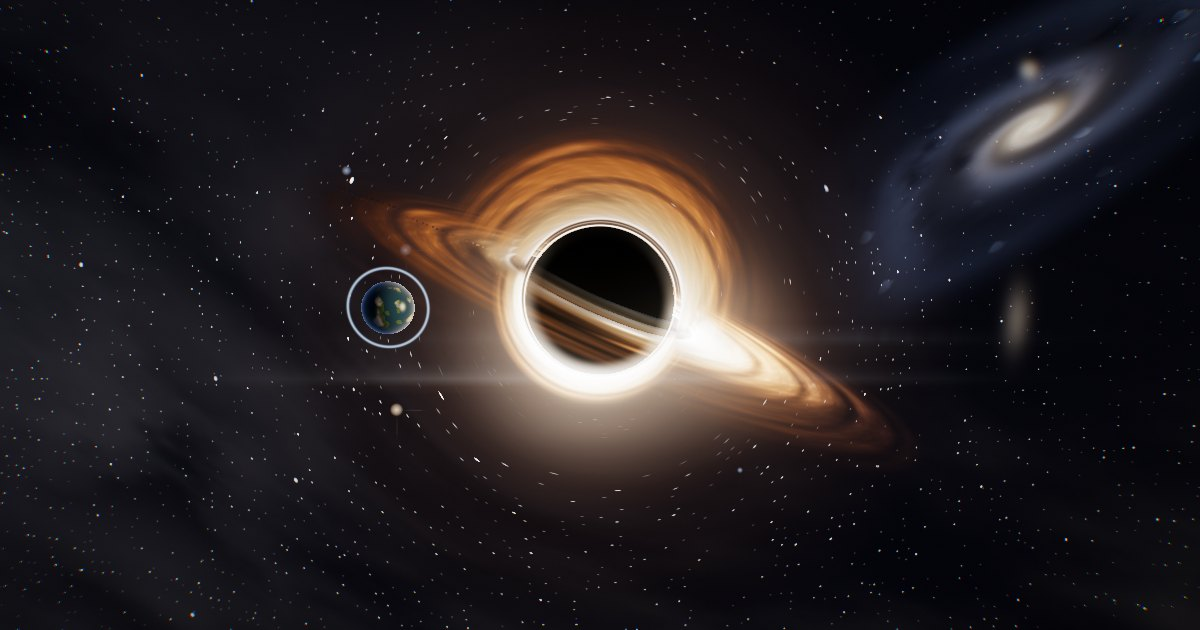
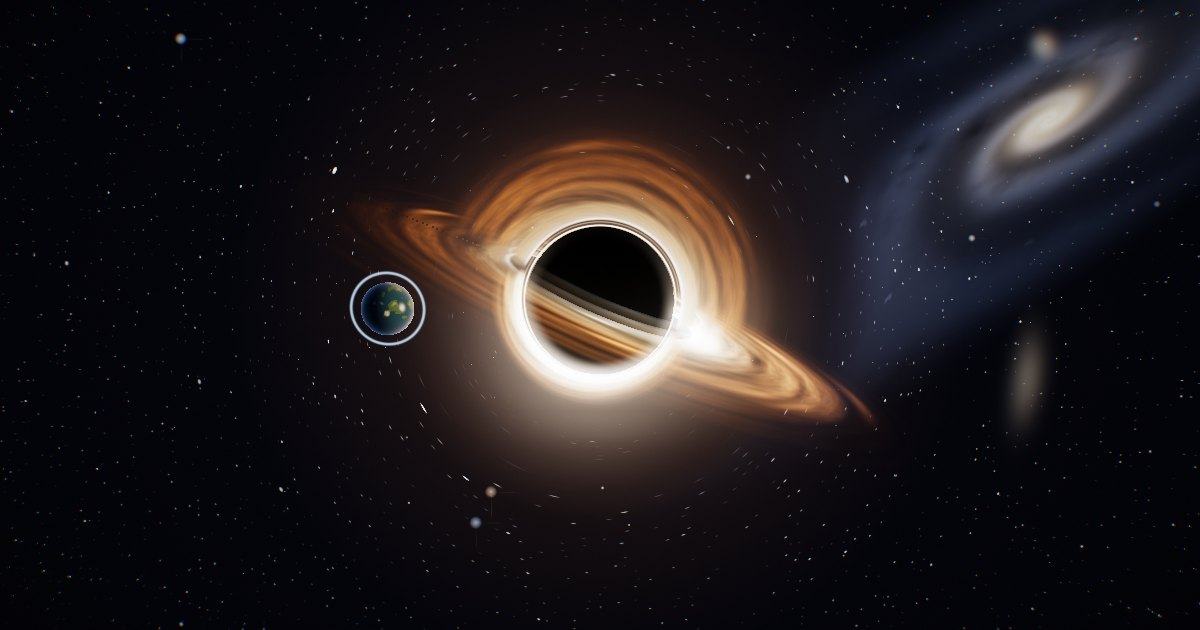
Fuera la raya de luz horizontal en las dos páginas y la Vía Láctea de Gargantua (Andrómeda más grande)

diff --git a/gargantua/escena.js b/gargantua/escena.js
@@ -10,7 +10,7 @@ import { Pass, FullScreenQuad } from "three/addons/postprocessing/Pass.js";
 // Gargantua, flotando en el espacio y haciendo de portada del
 // portfolio. El disco de gas son tres capas que giran (más rápido por
 // dentro), la luz doblada son dos arcos que abrazan la sombra negra, y
-// detrás hay estrellas, la Vía Láctea y Andrómeda, todo deformado por la
+// detrás hay estrellas y Andrómeda, todo deformado por la
 // gravedad. De vez en cuando se come un planeta. Arrastrando se gira
 // alrededor y con la rueda o pellizcando te acercas. El menú lleva la
 // cámara a una toma distinta por sección. Al cargar llegas desde lejos
@@ -146,7 +146,7 @@ const tRuido = { value: texturaRuido() };
 // =====================================================================
 // 4. EL FONDO: ESTRELLAS DOBLADAS POR LA GRAVEDAD
 // Un cielo hecho en el shader: estrellas en una rejilla sobre las caras
-// de un cubo y una nebulosa muy tenue. Cada píxel primero se dobla con
+// de un cubo y Andrómeda. Cada píxel primero se dobla con
 // la ecuación de una lente gravitatoria, así que alrededor del agujero
 // las estrellas se estiran, se acercan a un anillo y aparecen
 // repetidas al otro lado.
@@ -227,10 +227,10 @@ const fondo = new THREE.Mesh(
             // pasa por detrás del agujero se curva a su alrededor.
             vec3 andromeda(vec3 d) {
                 vec3 g = normalize(uGalaxia);
-                if (dot(d, g) < 0.94) return vec3(0.0);
+                if (dot(d, g) < 0.9) return vec3(0.0);
                 vec3 e1 = normalize(cross(g, vec3(0.0, 1.0, 0.0)));
                 vec3 e2 = cross(e1, g);
-                vec2 p = vec2(dot(d, e1), dot(d, e2)) / 0.17;
+                vec2 p = vec2(dot(d, e1), dot(d, e2)) / 0.22;
                 p = mat2(0.83, -0.56, 0.56, 0.83) * p;
                 vec2 q = vec2(p.x, p.y / 0.3);
                 float r = length(q);
@@ -257,23 +257,6 @@ const fondo = new THREE.Mesh(
                 return col * 0.32;
             }
 
-            // La Vía Láctea: una banda ancha que cruza todo el cielo, con
-            // nubes de estrellas, una zona central más cálida y una franja
-            // de polvo oscuro en medio
-            vec3 viaLactea(vec3 d, out float densidad) {
-                vec3 n = normalize(vec3(0.35, 0.8, -0.45));
-                float lat = dot(d, n);
-                float banda = exp(-lat * lat / 0.07);
-                float lon = atan(dot(d, normalize(cross(n, vec3(1.0, 0.0, 0.0)))), dot(d, normalize(cross(n, vec3(0.0, 0.0, 1.0))))) / 6.2832;
-                float nubes = texture2D(tRuido, vec2(lon * 3.0, lat * 1.5 + 0.5)).r;
-                float finas = texture2D(tRuido, vec2(lon * 9.0 + 0.3, lat * 4.0 + 0.2)).r;
-                float polvo = smoothstep(0.45, 0.7, finas) * exp(-lat * lat / 0.006);
-                float centro = exp(-pow((lon - 0.12) * 4.0, 2.0));
-                densidad = banda * (0.5 + nubes) * (1.0 - polvo * 0.8);
-                vec3 color = mix(vec3(0.38, 0.45, 0.7), vec3(0.9, 0.72, 0.52), centro * 0.8);
-                return color * banda * smoothstep(0.35, 0.8, nubes * 0.7 + finas * 0.4) * (1.0 - polvo * 0.85) * (0.05 + centro * 0.05);
-            }
-
             void main() {
                 vec3 dir = normalize(vMundo - cameraPosition);
                 vec3 haciaAgujero = normalize(uAgujero - cameraPosition);
@@ -288,8 +271,9 @@ const fondo = new THREE.Mesh(
                 float aumento = clamp(1.0 / abs(1.0 - e2 * e2 / pow(max(theta, 0.0005), 4.0)), 0.0, 6.0);
 
                 vec3 cielo = mix(vec3(0.004, 0.005, 0.01), vec3(0.012, 0.012, 0.022), exp(-theta * 2.5));
-                float nebulosa;
-                cielo += viaLactea(d, nebulosa);
+                // Sin Vía Láctea: al doblarse con la lente quedaba mal; el
+                // protagonista del fondo es Andrómeda
+                float nebulosa = 0.0;
 
                 vec3 estrellas = capaEstrellas(d, 110.0, 0.3, 0.07, 1.0) * 0.6;
                 estrellas += capaEstrellas(d, 40.0, 0.22, 0.05, 2.0) * 1.6;
@@ -429,7 +413,7 @@ const brillar = (o) => {
 };
 
 // Lo que brilla solo un momento (el planeta que se rompe, sus trozos y
-// el fogonazo) tiene resplandor pero no hace el destello horizontal
+// el fogonazo) se pinta aparte en el resplandor
 const brillarFugaz = (o) => {
     o.layers.enable(CAPA_FUGAZ);
     return o;
@@ -1514,7 +1498,6 @@ class PaseBrillo extends Pass {
         const op = { type: hayFlotantes ? THREE.HalfFloatType : THREE.UnsignedByteType, depthBuffer: false };
         this.escena = new THREE.WebGLRenderTarget(1, 1, { ...op, depthBuffer: true });
         this.niveles = [0, 1, 2].map(() => [new THREE.WebGLRenderTarget(1, 1, op), new THREE.WebGLRenderTarget(1, 1, op)]);
-        this.raya = [new THREE.WebGLRenderTarget(1, 1, op), new THREE.WebGLRenderTarget(1, 1, op)];
         this.difuminar = new THREE.ShaderMaterial({
             uniforms: { tEntrada: { value: null }, uDir: { value: new THREE.Vector2() } },
             vertexShader: VERTICE_PLANO,
@@ -1564,8 +1547,6 @@ class PaseBrillo extends Pass {
                 tN0: { value: null },
                 tN1: { value: null },
                 tN2: { value: null },
-                tRaya: { value: null },
-                uRaya: { value: 0.22 },
                 uFuerza: { value: 0.55 },
                 uCentro: { value: new THREE.Vector2(0.5, 0.5) },
                 uElipse: { value: new THREE.Matrix3() }
@@ -1576,8 +1557,6 @@ class PaseBrillo extends Pass {
                 uniform sampler2D tN0;
                 uniform sampler2D tN1;
                 uniform sampler2D tN2;
-                uniform sampler2D tRaya;
-                uniform float uRaya;
                 uniform float uFuerza;
                 uniform vec2 uCentro;
                 uniform mat3 uElipse;
@@ -1590,7 +1569,6 @@ class PaseBrillo extends Pass {
                     vec2 d = vUv - uCentro;
                     vec2 e = mat2(uElipse[0].xy, uElipse[1].xy) * d;
                     float bola = 1.0 - smoothstep(0.8, 1.0, sqrt(dot(d, e)));
-                    brillo += texture2D(tRaya, vUv).rgb * vec3(0.8, 0.88, 1.0) * uRaya;
                     brillo *= 1.0 - bola * 0.88;
                     gl_FragColor = vec4(base.rgb + brillo * uFuerza, base.a);
                 }
@@ -1609,7 +1587,6 @@ class PaseBrillo extends Pass {
             const f = 1 << i;
             par.forEach((rt) => rt.setSize(Math.max(1, Math.round(m / f)), Math.max(1, Math.round(n / f))));
         });
-        this.raya.forEach((rt) => rt.setSize(Math.max(1, Math.round(m / 2)), Math.max(1, Math.round(n / 4))));
     }
 
     pasada(renderizador, material, destino) {
@@ -1638,14 +1615,10 @@ class PaseBrillo extends Pass {
         renderizador.clear();
         renderizador.render(escena, camara);
 
-        // El destello horizontal se saca antes de pintar lo fugaz: solo lo
-        // más fuerte del disco, estirado de lado
-        const [ra, rb] = this.raya;
+        // (Sin destello horizontal: dejaba una raya de luz cruzando la
+        // pantalla)
         this.recortar.uniforms.tEntrada.value = this.escena.texture;
         this.recortar.uniforms.uPaso.value.set(1 / this.escena.width, 1 / this.escena.height);
-        this.recortar.uniforms.uUmbral.value = 3.0;
-        this.pasada(renderizador, this.recortar, ra);
-        this.recortar.uniforms.uUmbral.value = 0.7;
 
         // Lo fugaz se suma encima, respetando lo que tapa la sombra (solo
         // si hay algo que pintar)
@@ -1671,19 +1644,11 @@ class PaseBrillo extends Pass {
         this.difumina(renderizador, n2, 1.6);
         this.difumina(renderizador, n2, 3.0);
 
-        const d = this.difuminar.uniforms;
-        [[ra, rb, 2], [rb, ra, 4.5], [ra, rb, 10], [rb, ra, 22]].forEach(([desde, hacia, escala]) => {
-            d.tEntrada.value = desde.texture;
-            d.uDir.value.set(escala / desde.width, 0);
-            this.pasada(renderizador, this.difuminar, hacia);
-        });
-
         const u = this.mezclar.uniforms;
         u.tBase.value = origen.texture;
         u.tN0.value = n0[0].texture;
         u.tN1.value = n1[0].texture;
         u.tN2.value = n2[0].texture;
-        u.tRaya.value = ra.texture;
         this.pasada(renderizador, this.mezclar, this.renderToScreen ? null : destino);
     }
 }

diff --git a/camino-cine/cine.js b/camino-cine/cine.js
@@ -613,17 +613,20 @@ export class PaseBrillo extends Pass {
         this.difumina(renderizador, n2, 1.6);
         this.difumina(renderizador, n2, 3.0);
 
+        // El destello horizontal solo se calcula si tiene fuerza
         const [ra, rb] = this.raya;
-        r.uUmbral.value = this.umbralRaya;
-        r.tEntrada.value = n0[0].texture;
-        r.uPaso.value.set(0, 0);
-        this.pasada(renderizador, this.recortar, ra);
-        const d = this.difuminar.uniforms;
-        [[ra, rb, 2], [rb, ra, 4.5], [ra, rb, 10], [rb, ra, 22]].forEach(([desde, hacia, escala]) => {
-            d.tEntrada.value = desde.texture;
-            d.uDir.value.set(escala / desde.width, 0);
-            this.pasada(renderizador, this.difuminar, hacia);
-        });
+        if (this.mezclar.uniforms.uRaya.value > 0) {
+            r.uUmbral.value = this.umbralRaya;
+            r.tEntrada.value = n0[0].texture;
+            r.uPaso.value.set(0, 0);
+            this.pasada(renderizador, this.recortar, ra);
+            const d = this.difuminar.uniforms;
+            [[ra, rb, 2], [rb, ra, 4.5], [ra, rb, 10], [rb, ra, 22]].forEach(([desde, hacia, escala]) => {
+                d.tEntrada.value = desde.texture;
+                d.uDir.value.set(escala / desde.width, 0);
+                this.pasada(renderizador, this.difuminar, hacia);
+            });
+        }
 
         const u = this.mezclar.uniforms;
         u.tBase.value = origen.texture;

diff --git a/camino-cine/escena.js b/camino-cine/escena.js
@@ -4,7 +4,7 @@ import { EffectComposer } from "three/addons/postprocessing/EffectComposer.js";
 import { RenderPass } from "three/addons/postprocessing/RenderPass.js";
 import { OutputPass } from "three/addons/postprocessing/OutputPass.js";
 import { Pass, FullScreenQuad } from "three/addons/postprocessing/Pass.js";
-import { PaseBrillo, crearAcabado, crearZumbido } from "./cine.js?v=2";
+import { PaseBrillo, crearAcabado, crearZumbido } from "./cine.js?v=3";
 
 // =====================================================================
 // 1. AJUSTES GENERALES
@@ -4190,7 +4190,7 @@ paseEscena.clearDepth = true;
 compositor.addPass(paseFondo);
 compositor.addPass(paseEscena);
 compositor.addPass(paseCine);
-compositor.addPass(new PaseBrillo({ flotantes: hayFlotantes, escala: movil ? 3 : 2, umbral: 0.62, umbralRaya: 0.85, fuerza: 0.5, raya: 0.18 }));
+compositor.addPass(new PaseBrillo({ flotantes: hayFlotantes, escala: movil ? 3 : 2, umbral: 0.62, umbralRaya: 0.85, fuerza: 0.5, raya: 0 }));
 compositor.addPass(new OutputPass());
 compositor.addPass(crearAcabado(comunes.uTiempo));
 

diff --git a/gargantua/index.html b/gargantua/index.html
@@ -89,6 +89,6 @@
     <p class="pista" id="pista">Toca un planeta para entrar, arrastra para girar</p>
     <p class="cargando" id="cargando">Encendiendo el disco...</p>
 
-    <script type="module" src="escena.js?v=24"></script>
+    <script type="module" src="escena.js?v=25"></script>
 </body>
 </html>

diff --git a/camino-cine/index.html b/camino-cine/index.html
@@ -85,6 +85,6 @@
     <p class="pista" id="pista">Rueda del ratón o flechas para caminar</p>
     <p class="cargando" id="cargando">Encendiendo la noche...</p>
 
-    <script type="module" src="escena.js?v=21"></script>
+    <script type="module" src="escena.js?v=22"></script>
 </body>
 </html>
